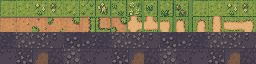
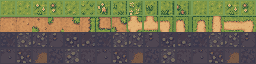
fix(art): align animation origins, soften live terrain seams and add uncluttered in-engine asset gallery

diff --git a/docs/art/GAME_READY_ASSETS.md b/docs/art/GAME_READY_ASSETS.md
@@ -1,5 +1,7 @@
 # PixelTown artwork: placing and editing (asset usability pass)
 
+Open `scenes/levels/premium_asset_gallery.tscn` to preview the separated sprite instances at real game scale.  A captured version appears in CI artifacts.
+
 This pack **does not replace the approved cottage**. Use the existing `HouseSmall.tscn` and `assets/sprites/buildings/house_small.png` unchanged.
 
 ## How to place individual objects
